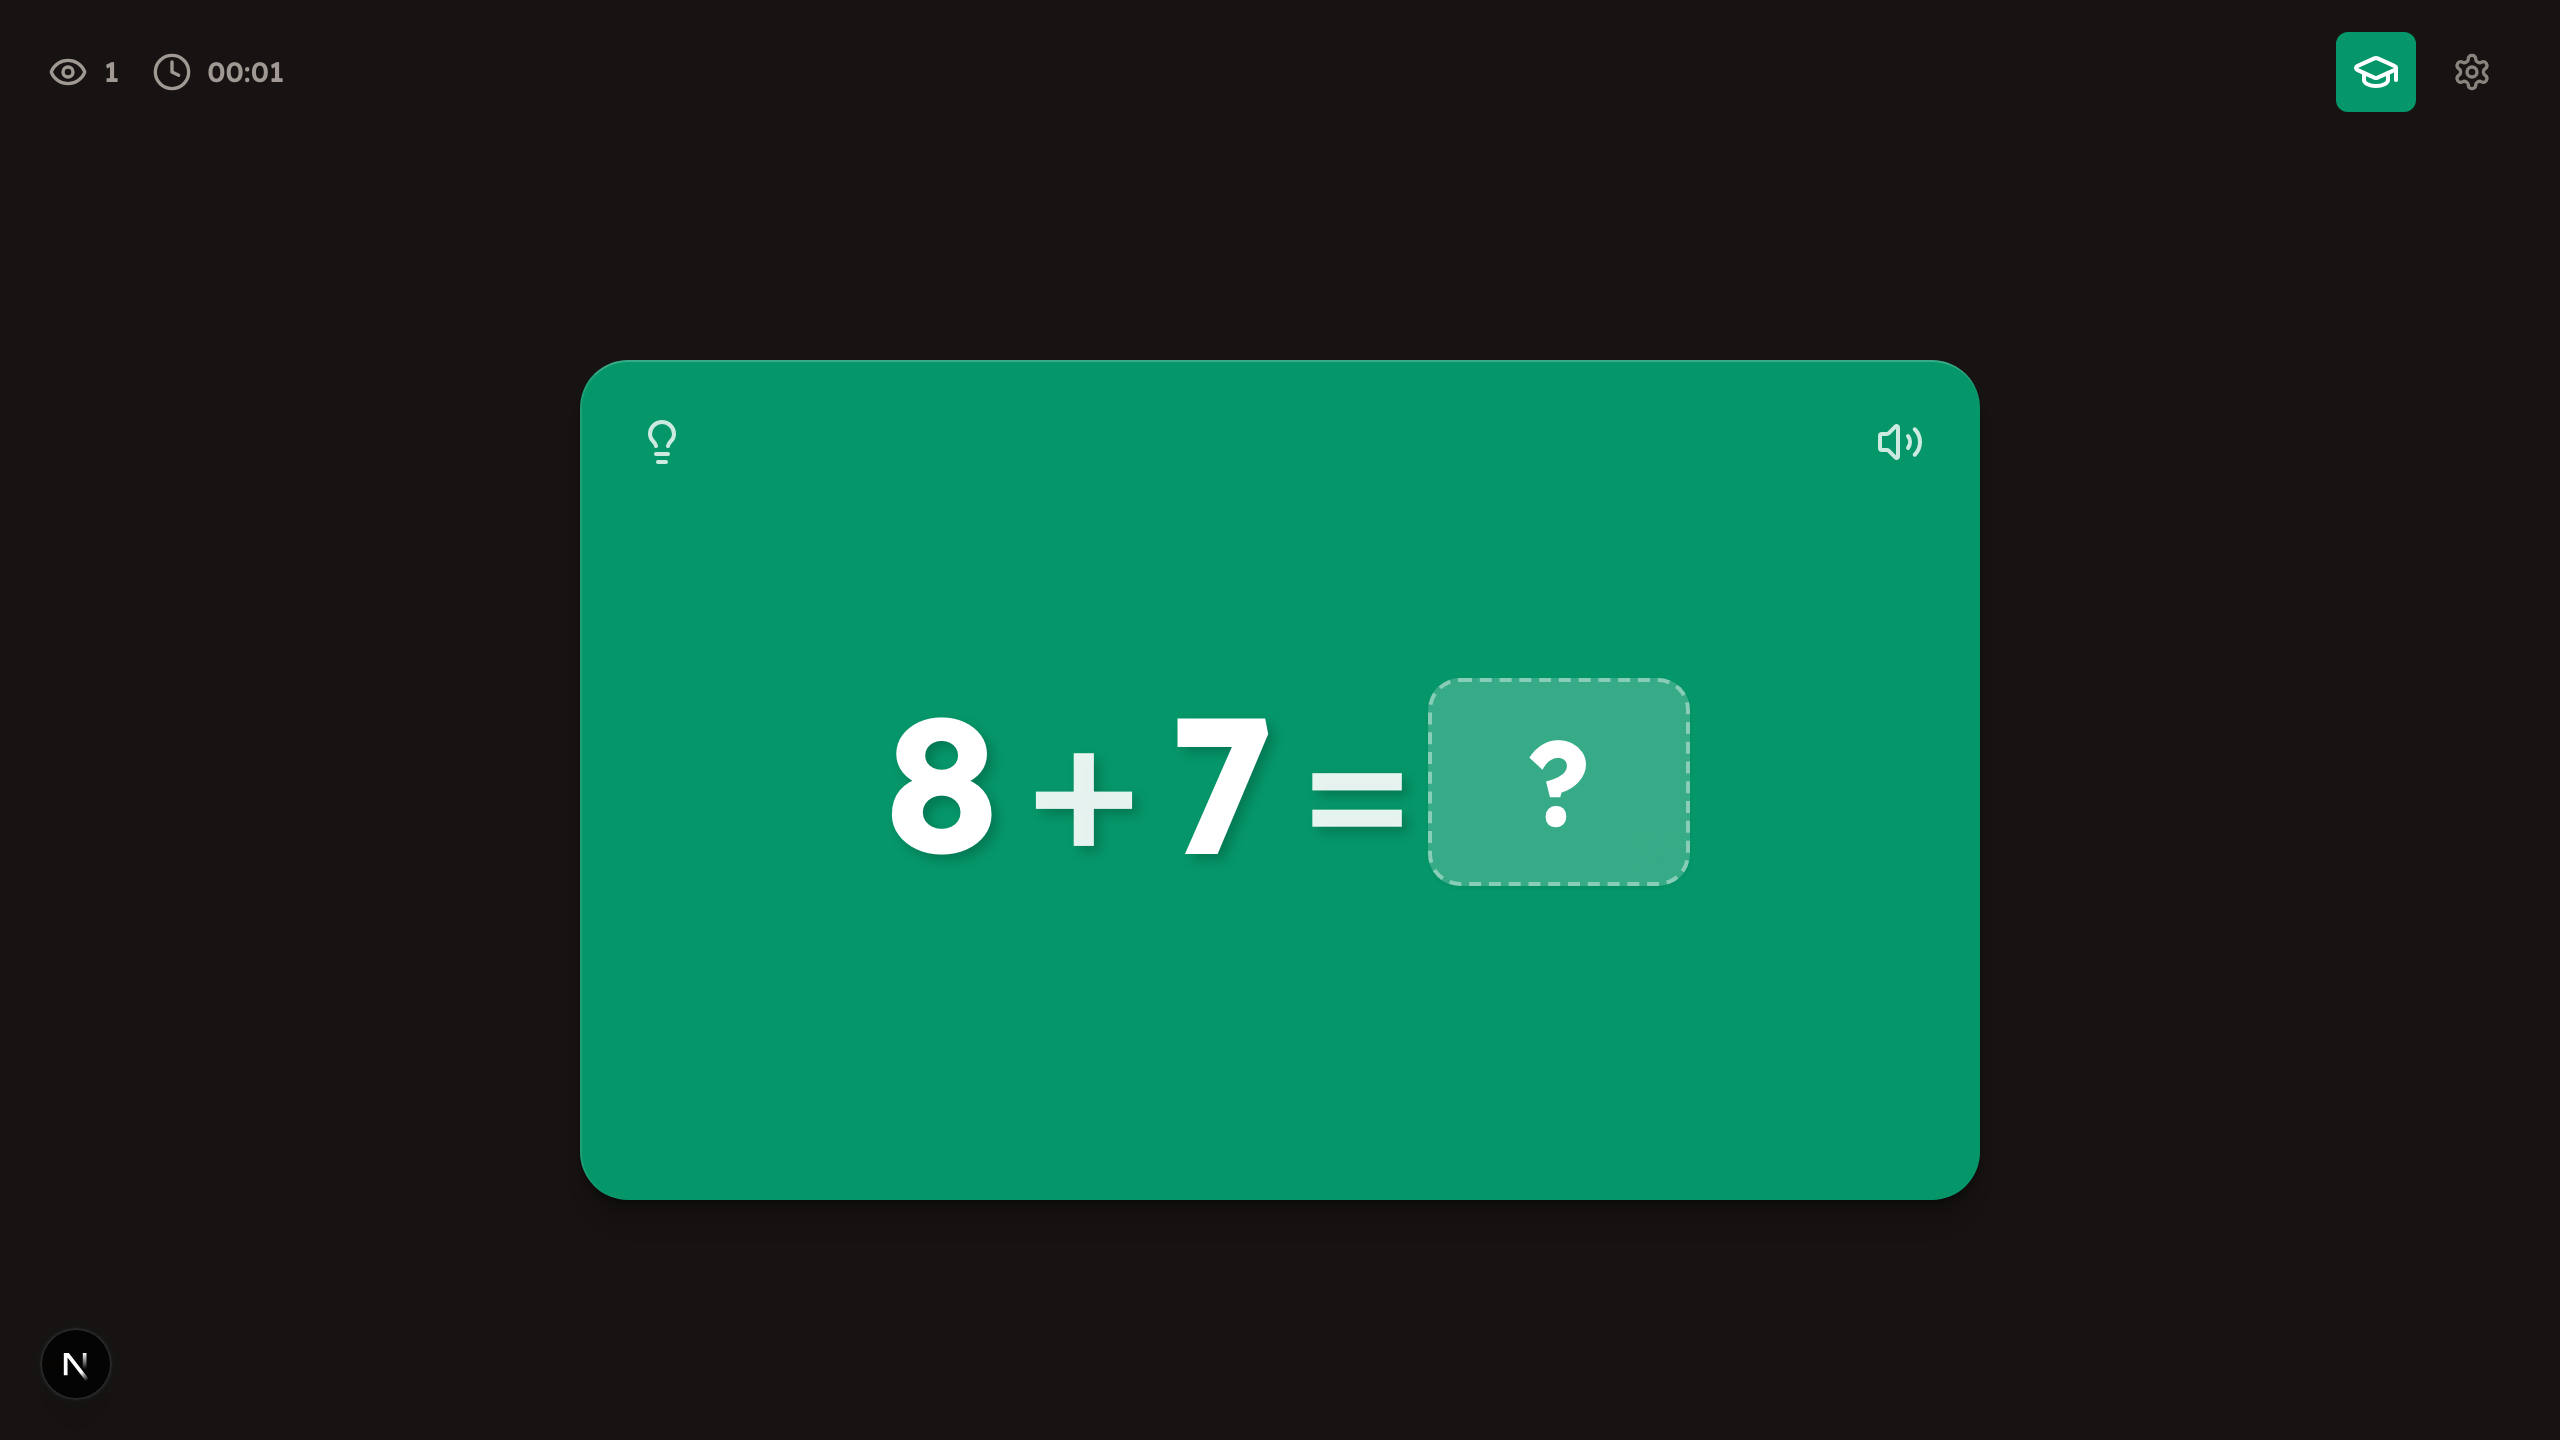
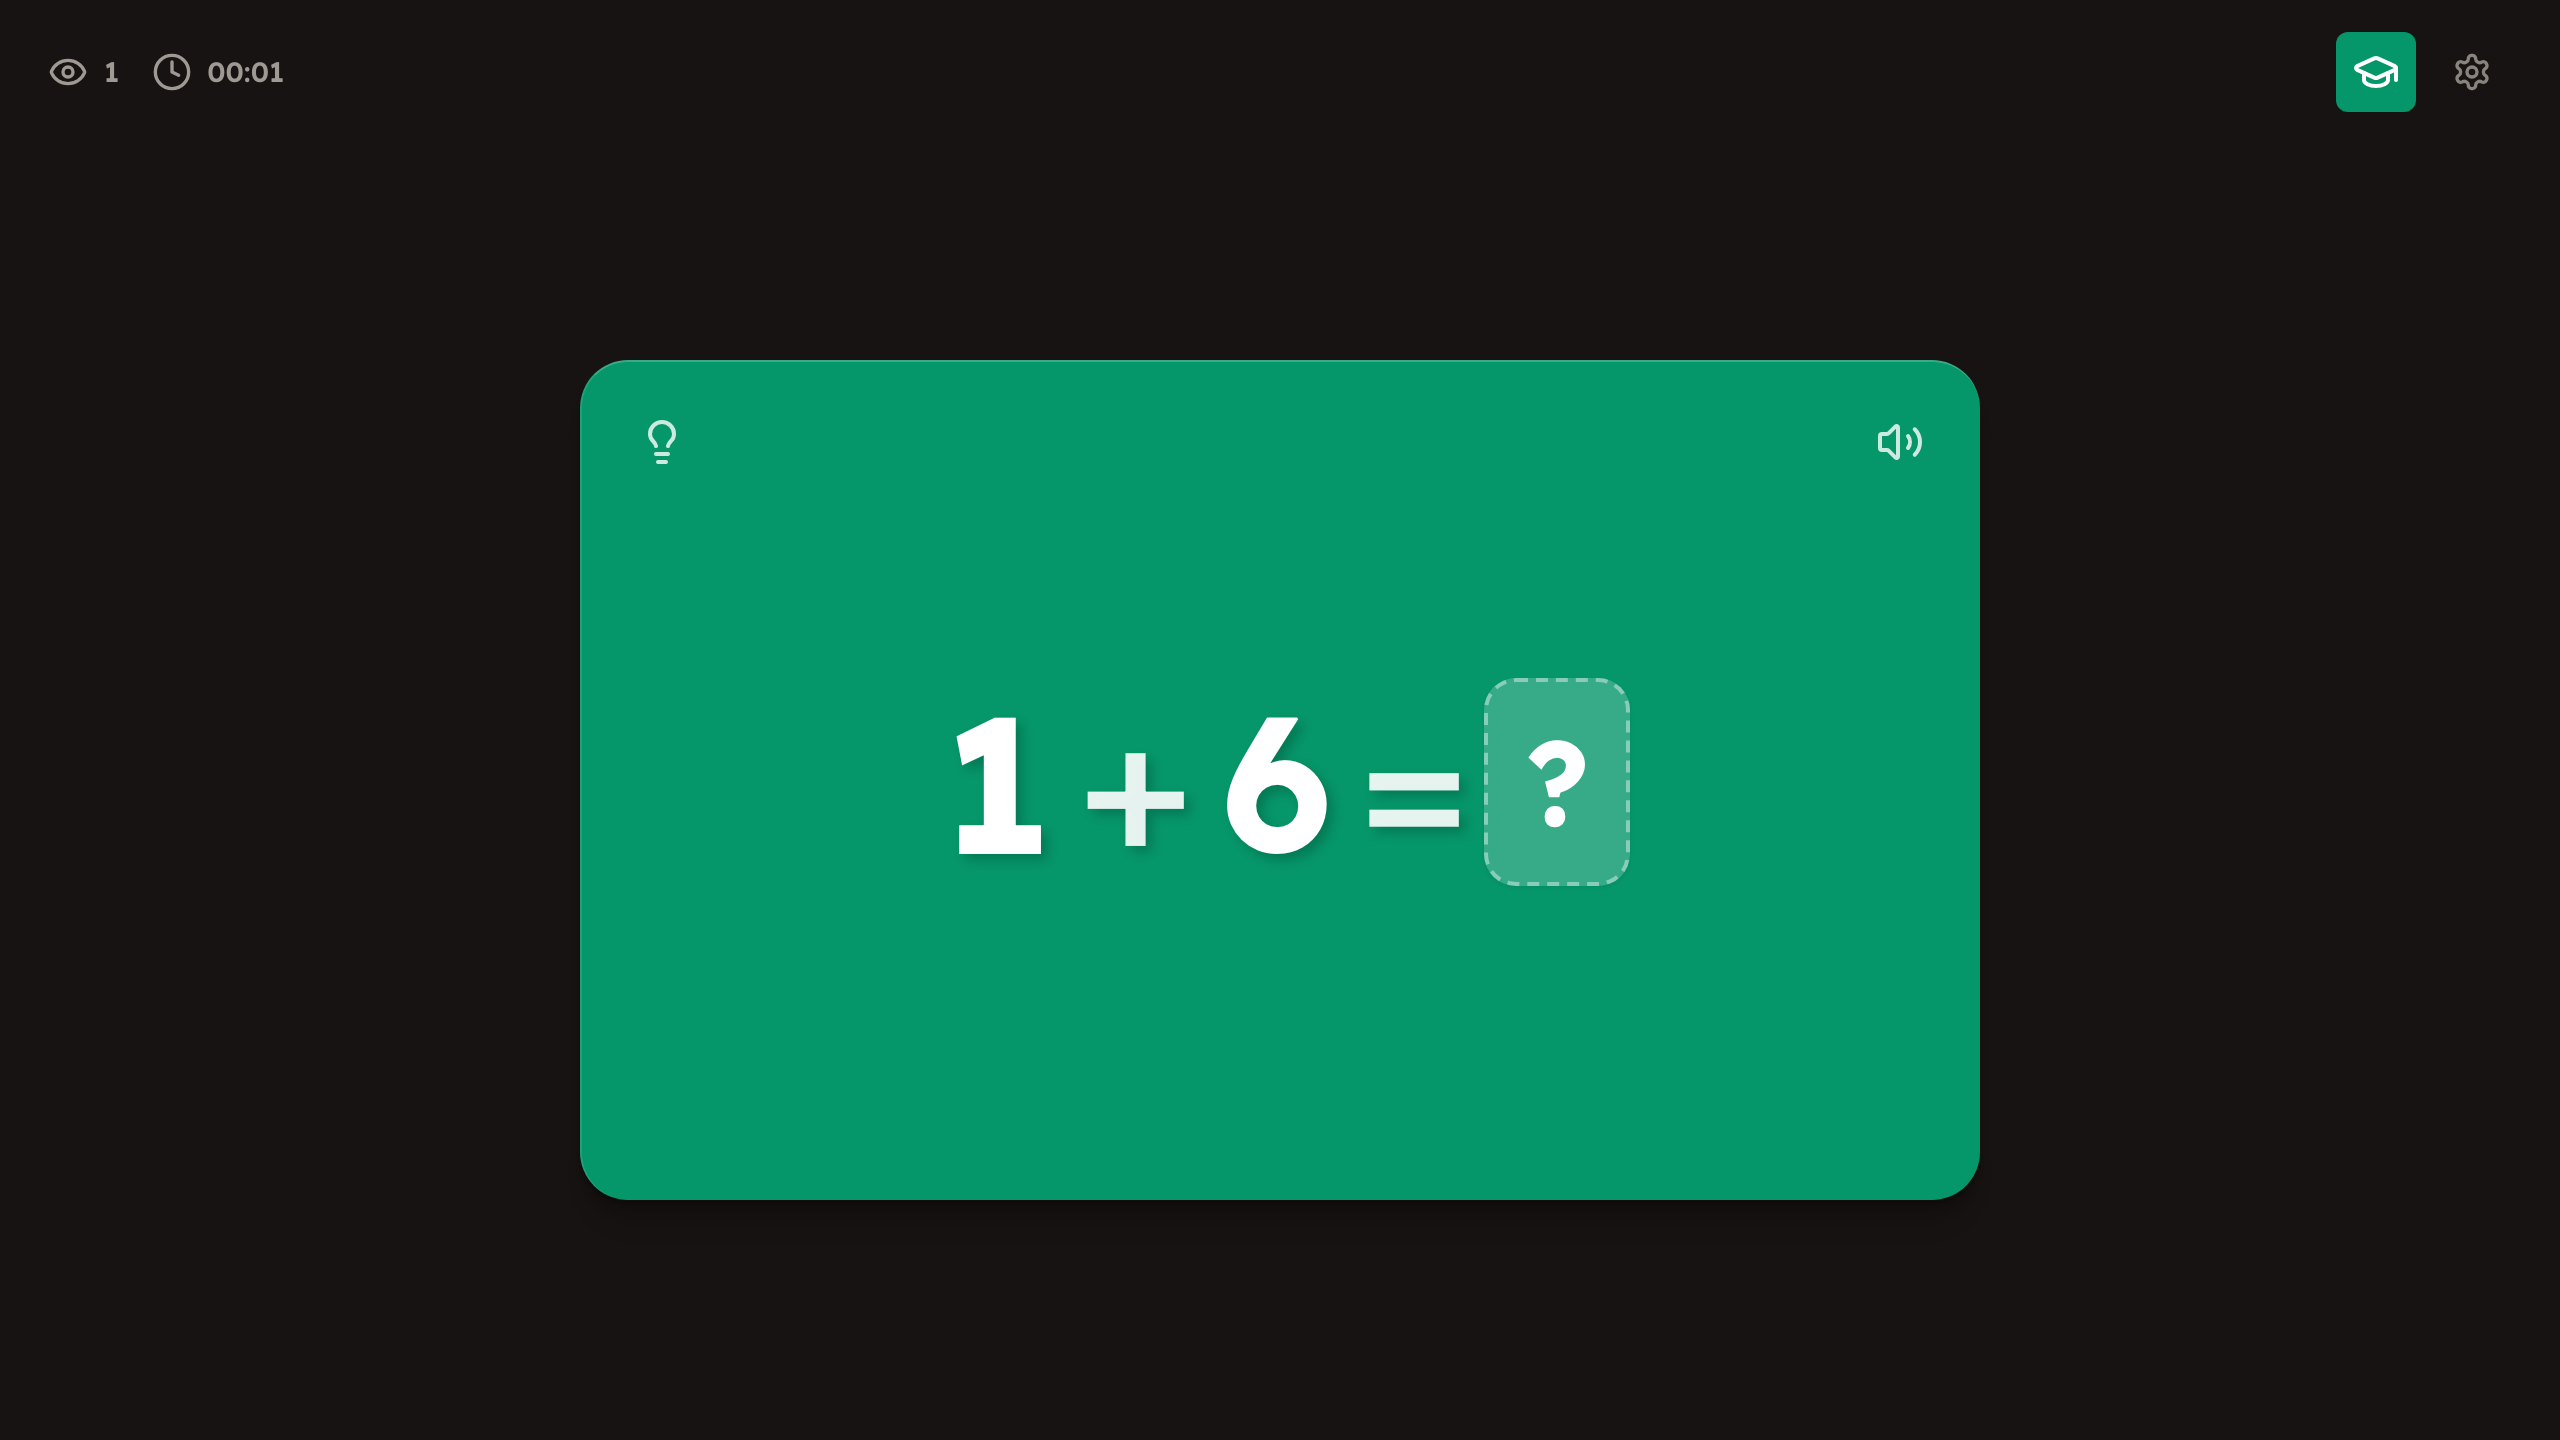
fix: remove Next.js dev indicator from screenshots and polish landing page visual hierarchy

Changed region(s): [[0.3438, 0.4688, 0.5938, 0.625], [0.625, 0.4688, 0.6875, 0.625]]

diff --git a/apps/landing-page/src/app/page.tsx b/apps/landing-page/src/app/page.tsx
@@ -3,7 +3,7 @@
 import * as React from "react";
 import Image from "next/image";
 import Link from "next/link";
-import { ExternalLink, CheckCircle2 } from "lucide-react";
+import { ExternalLink, CheckCircle2, GraduationCap } from "lucide-react";
 import { DECK_COLORS } from "@decks/core";
 import { ThemeToggle } from "../components/theme-toggle";
 
@@ -26,7 +26,6 @@ const APPS = [
     playStoreUrl:
       "https://play.google.com/store/apps/details?id=org.edudecks.arithmetic",
     primaryButtonClass: DECK_COLORS.emerald.btn,
-    ageBadgeClass: "bg-muted/60 text-muted-foreground border-border/70",
     screenshots: [
       {
         label: "Card Front",
@@ -56,7 +55,6 @@ const APPS = [
     playStoreUrl:
       "https://play.google.com/store/apps/details?id=org.edudecks.reading",
     primaryButtonClass: DECK_COLORS.emerald.btn,
-    ageBadgeClass: "bg-muted/60 text-muted-foreground border-border/70",
     screenshots: [
       {
         label: "Phonics Card",
@@ -156,21 +154,14 @@ export default function HomePage() {
                 key={app.id}
                 className="group flex flex-col bg-card border border-border/80 rounded-3xl p-5 sm:p-7 shadow-xs hover:shadow-md transition-all duration-300 relative overflow-hidden"
               >
-                {/* Top Bar: Title & Target Age */}
-                <div className="flex items-start justify-between gap-2 mb-3">
-                  <div>
-                    <h2 className="text-xl font-bold font-headline text-foreground tracking-tight">
-                      {app.title}
-                    </h2>
-                    <p className="text-xs font-medium text-muted-foreground mt-0.5">
-                      {app.subtitle}
-                    </p>
-                  </div>
-                  <span
-                    className={`inline-flex items-center px-2.5 py-1 rounded-full text-[11px] font-semibold border shrink-0 ${app.ageBadgeClass}`}
-                  >
-                    {app.ageRange}
-                  </span>
+                {/* Top Bar: Large App Title & Subtitle */}
+                <div className="mb-2">
+                  <h2 className="text-2xl sm:text-3xl font-extrabold font-headline text-foreground tracking-tight">
+                    {app.title}
+                  </h2>
+                  <p className="text-sm font-medium text-muted-foreground mt-1">
+                    {app.subtitle}
+                  </p>
                 </div>
 
                 {/* Actual Screenshot Frame (Native 16:9 Aspect Ratio) */}
@@ -216,10 +207,16 @@ export default function HomePage() {
                   })}
                 </div>
 
-                {/* Description */}
-                <p className="text-xs sm:text-sm text-foreground/80 leading-relaxed mb-6">
-                  {app.description}
-                </p>
+                {/* Description & Target Age Badge */}
+                <div className="flex flex-col gap-3 mb-6">
+                  <p className="text-xs sm:text-sm text-foreground/80 leading-relaxed">
+                    {app.description}
+                  </p>
+                  <div className="inline-flex items-center gap-1.5 self-start px-2.5 py-1 rounded-lg text-xs font-semibold bg-muted/60 text-muted-foreground border border-border/70">
+                    <GraduationCap className="w-3.5 h-3.5 text-muted-foreground" />
+                    <span>{app.ageRange}</span>
+                  </div>
+                </div>
 
                 {/* Action Buttons */}
                 <div className="grid grid-cols-2 gap-2.5 mt-auto pt-2">

diff --git a/scripts/generate-all-store-assets.ts b/scripts/generate-all-store-assets.ts
@@ -20,6 +20,30 @@ async function advanceToLastAnimationStep(page: Page) {
   await page.waitForTimeout(1200);
 }
 
+async function hideDevOverlays(page: Page) {
+  try {
+    await page.addStyleTag({
+      content: `
+        nextjs-portal,
+        [data-nextjs-toast],
+        [data-nextjs-dev-tools],
+        #nextjs-dev-tools,
+        #__next-build-watcher,
+        div[data-nextjs-portal],
+        .nextjs-toast-errors-parent {
+          display: none !important;
+          visibility: hidden !important;
+          opacity: 0 !important;
+          pointer-events: none !important;
+        }
+      `,
+    });
+    await page.evaluate(() => {
+      document.querySelectorAll('nextjs-portal, [data-nextjs-dev-tools], #nextjs-dev-tools, #__next-build-watcher').forEach(el => el.remove());
+    });
+  } catch (e) {}
+}
+
 /**
  * Helper to remove focus rings / blur active element before screenshot capture.
  */
@@ -32,6 +56,7 @@ async function clearFocus(page: Page) {
       (document.activeElement as HTMLElement).blur();
     }
   });
+  await hideDevOverlays(page);
   await page.waitForTimeout(200);
 }
 

diff --git a/scripts/generate-landing-screenshots.ts b/scripts/generate-landing-screenshots.ts
@@ -18,6 +18,30 @@ async function advanceToLastStep(page: Page) {
   await page.waitForTimeout(800);
 }
 
+async function hideDevOverlays(page: Page) {
+  try {
+    await page.addStyleTag({
+      content: `
+        nextjs-portal,
+        [data-nextjs-toast],
+        [data-nextjs-dev-tools],
+        #nextjs-dev-tools,
+        #__next-build-watcher,
+        div[data-nextjs-portal],
+        .nextjs-toast-errors-parent {
+          display: none !important;
+          visibility: hidden !important;
+          opacity: 0 !important;
+          pointer-events: none !important;
+        }
+      `,
+    });
+    await page.evaluate(() => {
+      document.querySelectorAll('nextjs-portal, [data-nextjs-dev-tools], #nextjs-dev-tools, #__next-build-watcher').forEach(el => el.remove());
+    });
+  } catch (e) {}
+}
+
 async function clearFocus(page: Page) {
   try {
     await page.mouse.move(0, 0);
@@ -27,6 +51,7 @@ async function clearFocus(page: Page) {
       (document.activeElement as HTMLElement).blur();
     }
   });
+  await hideDevOverlays(page);
   await page.waitForTimeout(200);
 }
 

diff --git a/apps/landing-page/next.config.ts b/apps/landing-page/next.config.ts
@@ -5,6 +5,7 @@ const nextConfig: NextConfig = {
   images: {
     unoptimized: true,
   },
+  devIndicators: false,
 };
 
 export default nextConfig;

diff --git a/apps/reading-deck/next.config.ts b/apps/reading-deck/next.config.ts
@@ -39,6 +39,7 @@ const nextConfig: NextConfig = {
       },
     ],
   },
+  devIndicators: false,
 };
 
 export default withPWA({
